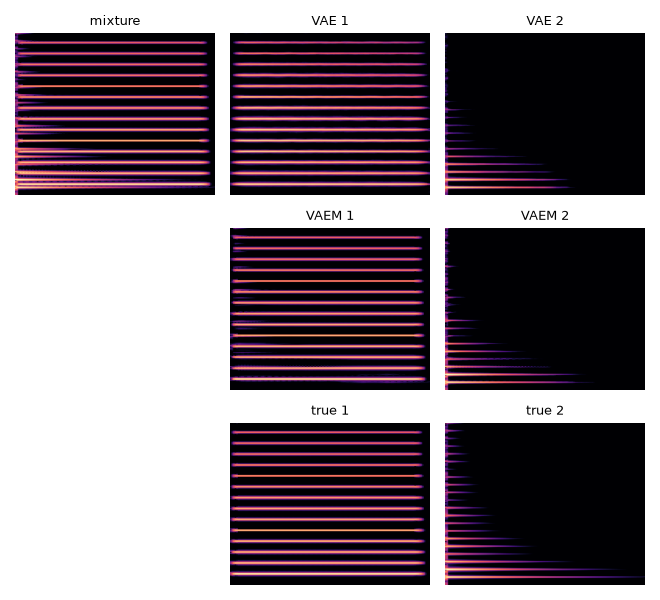
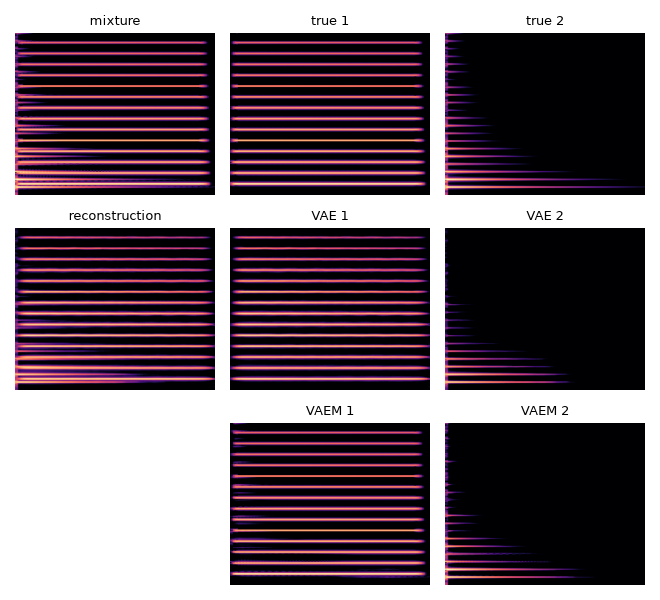
Lay out the evaluation example spectrograms like the training GIFs
The true notes now sit next to the mixture on the top row, the reconstruction next to the VAE sources, and the VAEM sources below.

diff --git a/src/datasets/audio_synthetic.py b/src/datasets/audio_synthetic.py
@@ -144,8 +144,10 @@ def _write_wav(path, wave, peak):
     wavfile.write(path, SAMPLE_RATE, np.round(32767 * wave / peak).astype(np.int16))
 
 
-def _save_example(folder, names, mixture, rows, audio, compression=1.0):
-    """Spectrograms and .wav files of one test mixture."""
+def _save_example(folder, names, left, rows, audio, compression=1.0):
+    """Spectrograms and .wav files of one test mixture. ``left`` holds the ``(title, spectrogram)``
+    shown at the start of each row (the mixture next to the true notes, the reconstruction next to
+    the VAE sources), ``rows`` the ``(label, spectrograms)`` of each row."""
     os.makedirs(folder, exist_ok=True)
     peak = max(1e-9, max(float(np.abs(w).max()) for w in audio.values()))
     for label, wave in audio.items():
@@ -157,7 +159,8 @@ def _save_example(folder, names, mixture, rows, audio, compression=1.0):
                              squeeze=False)
     for ax in axes.flat:
         ax.axis('off')
-    _show(axes[0, 0], mixture, 'mixture', compression)
+    for r, (title, spec) in enumerate(left):
+        _show(axes[r, 0], spec, title, compression)
     for r, (label, specs) in enumerate(rows):
         for j, spec in enumerate(specs):
             _show(axes[r, j + 1], spec, f'{label} {j + 1}', compression)
@@ -182,7 +185,7 @@ def evaluate(model, args, out, device, examples=10, batch_size=64):
     for batch in loader:
         x, extra = prepare(batch, device, args)
         mix_spec, src_spec, norm = extra['mix_spec'], extra['src_spec'], extra['norm']
-        recons = model(x)[3]
+        recon_x, _, _, recons = model(x)
         s_vae, s_vaem = _sources(x, recons, k)
         ibm, irm = ideal_masks(src_spec, mix_spec)
         phase = torch.exp(1j * torch.angle(mix_spec)).unsqueeze(1)
@@ -220,11 +223,15 @@ def evaluate(model, args, out, device, examples=10, batch_size=64):
                     audio[f'vaem_{j + 1}'] = estimates['VAEM'][b, src].cpu().numpy()
                     if 'VAEW' in estimates:
                         audio[f'vaew_{j + 1}'] = estimates['VAEW'][b, src].cpu().numpy()
-                rows = [('VAE', s_vae[b, order].cpu().numpy()),
-                        ('VAEM', s_vaem[b, order].cpu().numpy()),
-                        ('true', extra['s'][b].cpu().numpy())]
+                # Laid out like the training figures in the README: the mixture and the true
+                # notes, then the reconstruction and the VAE sources, then the VAEM sources.
+                rows = [('true', extra['s'][b].cpu().numpy()),
+                        ('VAE', s_vae[b, order].cpu().numpy()),
+                        ('VAEM', s_vaem[b, order].cpu().numpy())]
+                left = [('mixture', x[b].view(N_BINS, N_FRAMES).cpu().numpy()),
+                        ('reconstruction', recon_x[b].view(N_BINS, N_FRAMES).cpu().numpy())]
                 _save_example(os.path.join(out, f'example_{index + 1:02d}'), names,
-                              x[b].cpu().numpy(), rows, audio, args.compression)
+                              left, rows, audio, args.compression)
             index += 1
 
     with open(os.path.join(out, 'scores.csv'), 'w') as f:
